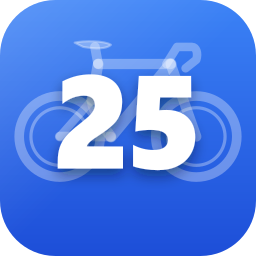
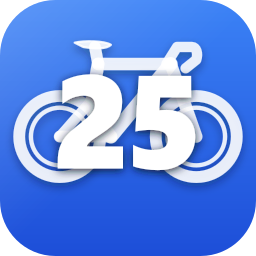
Boost Scott Foil RC 2026 silhouette line thickness and opacity for high visibility on calendar badge

Changed region(s): [[0.25, 0.1562, 0.9688, 0.75], [0.0312, 0.3125, 0.4688, 0.75]]

diff --git a/app/components/DynamicLogo.js b/app/components/DynamicLogo.js
@@ -22,9 +22,9 @@ export default function DynamicLogo({ className = "w-8 h-8", dayNumber }) {
                 ctx.roundRect(0, 0, 64, 64, 15);
                 ctx.fill();
 
-                // 2. Scott Foil Bike Silhouette in background (Soft white tint)
-                ctx.strokeStyle = 'rgba(255, 255, 255, 0.35)';
-                ctx.lineWidth = 2.2;
+                // 2. Scott Foil RC Bike Silhouette (Bold & High Visibility)
+                ctx.strokeStyle = 'rgba(255, 255, 255, 0.85)';
+                ctx.lineWidth = 3.2;
                 ctx.lineCap = 'round';
                 ctx.lineJoin = 'round';
 
@@ -46,12 +46,24 @@ export default function DynamicLogo({ className = "w-8 h-8", dayNumber }) {
                 ctx.lineTo(49, 36);
                 ctx.stroke();
 
-                // 3. Foreground: HUGE PURE WHITE BOLD DAY NUMBER (Google Calendar style)
+                // Cockpit
+                ctx.beginPath();
+                ctx.moveTo(43, 16);
+                ctx.lineTo(47, 12);
+                ctx.lineTo(49, 16);
+                ctx.stroke();
+
+                // 3. Foreground: HUGE PURE WHITE BOLD DAY NUMBER (with subtle shadow)
+                ctx.shadowColor = 'rgba(15, 23, 42, 0.9)';
+                ctx.shadowBlur = 4;
+                ctx.shadowOffsetX = 0;
+                ctx.shadowOffsetY = 2;
+
                 ctx.fillStyle = '#ffffff';
                 ctx.font = '900 36px system-ui, -apple-system, sans-serif';
                 ctx.textAlign = 'center';
                 ctx.textBaseline = 'middle';
-                ctx.fillText(currentDay.toString(), 32, 34);
+                ctx.fillText(currentDay.toString(), 32, 35);
 
                 // Update link icon in head
                 let link = document.querySelector("link[rel*='icon']");
@@ -84,8 +96,13 @@ export default function DynamicLogo({ className = "w-8 h-8", dayNumber }) {
                     <stop offset="50%" stopColor="#ffffff" stopOpacity="0"/>
                 </linearGradient>
 
-                <filter id="numShadow" x="-20%" y="-20%" width="140%" height="140%">
-                    <feDropShadow dx="0" dy="3" stdDeviation="3" floodColor="#0f172a" floodOpacity="0.45"/>
+                <filter id="bikeShadow" x="-15%" y="-15%" width="130%" height="130%">
+                    <feDropShadow dx="0" dy="2" stdDeviation="2" floodColor="#0f172a" floodOpacity="0.4"/>
+                </filter>
+
+                <filter id="strongNumShadow" x="-20%" y="-20%" width="140%" height="140%">
+                    <feDropShadow dx="0" dy="3" stdDeviation="4" floodColor="#0f172a" floodOpacity="0.85"/>
+                    <feDropShadow dx="0" dy="1" stdDeviation="2" floodColor="#0f172a" floodOpacity="0.9"/>
                 </filter>
             </defs>
 
@@ -93,29 +110,29 @@ export default function DynamicLogo({ className = "w-8 h-8", dayNumber }) {
             <rect width="120" height="120" rx="26" ry="26" fill="url(#solidBlueGrad)"/>
             <rect width="120" height="120" rx="26" ry="26" fill="url(#topGlow)"/>
 
-            {/* 2. Scott Foil RC 2026 Silhouette in Background */}
-            <g stroke="#ffffff" strokeOpacity="0.32" strokeLinecap="round" strokeLinejoin="round" fill="none">
-                {/* Deep section 50mm Carbon Aero Wheels */}
-                <circle cx="28" cy="64" r="19" strokeWidth="4.5"/>
-                <circle cx="28" cy="64" r="13.5" strokeWidth="1.5"/>
+            {/* 2. SCOTT FOIL RC 2026 Silhouette: BOLD, CRISP, HIGH-VISIBILITY PURE WHITE */}
+            <g stroke="#ffffff" strokeOpacity="0.88" strokeLinecap="round" strokeLinejoin="round" fill="none" filter="url(#bikeShadow)">
+                {/* Deep Section 50mm Carbon Aero Wheels */}
+                <circle cx="28" cy="64" r="19" strokeWidth="5.5"/>
+                <circle cx="28" cy="64" r="13.5" strokeWidth="2"/>
                 
-                <circle cx="92" cy="64" r="19" strokeWidth="4.5"/>
-                <circle cx="92" cy="64" r="13.5" strokeWidth="1.5"/>
+                <circle cx="92" cy="64" r="19" strokeWidth="5.5"/>
+                <circle cx="92" cy="64" r="13.5" strokeWidth="2"/>
 
                 {/* Scott Foil Frame lines */}
-                <line x1="28" y1="64" x2="52" y2="64" strokeWidth="4.5"/>
-                <line x1="28" y1="64" x2="43" y2="47" strokeWidth="3.8"/>
-                <path d="M43 47 C44 53, 48 59, 52 64" strokeWidth="5"/>
-                <line x1="43" y1="47" x2="46" y2="30" strokeWidth="5"/>
+                <line x1="28" y1="64" x2="52" y2="64" strokeWidth="5.5"/>
+                <line x1="28" y1="64" x2="43" y2="47" strokeWidth="4.8"/>
+                <path d="M43 47 C44 53, 48 59, 52 64" strokeWidth="6"/>
+                <line x1="43" y1="47" x2="46" y2="30" strokeWidth="6"/>
 
-                <line x1="46" y1="30" x2="80" y2="30" strokeWidth="4.8"/>
-                <line x1="52" y1="64" x2="80" y2="30" strokeWidth="5.5"/>
-                <line x1="80" y1="30" x2="92" y2="64" strokeWidth="4.8"/>
+                <line x1="46" y1="30" x2="80" y2="30" strokeWidth="5.8"/>
+                <line x1="52" y1="64" x2="80" y2="30" strokeWidth="6.5"/>
+                <line x1="80" y1="30" x2="92" y2="64" strokeWidth="5.8"/>
 
                 {/* Cockpit & Seatpost */}
-                <path d="M78 30 L83 22 L90 22 C92 22, 93 25, 92 28 L87 32" strokeWidth="4"/>
-                <line x1="46" y1="30" x2="44.5" y2="22" strokeWidth="4.5"/>
-                <path d="M35 20 C39 19, 49 19, 52 21 C50 23, 45 23, 39 22 Z" fill="#ffffff" fillOpacity="0.32" strokeWidth="1"/>
+                <path d="M78 30 L83 22 L90 22 C92 22, 93 25, 92 28 L87 32" strokeWidth="4.8"/>
+                <line x1="46" y1="30" x2="44.5" y2="22" strokeWidth="5.5"/>
+                <path d="M35 20 C39 19, 49 19, 52 21 C50 23, 45 23, 39 22 Z" fill="#ffffff" fillOpacity="0.88" strokeWidth="1"/>
             </g>
 
             {/* 3. Foreground: HUGE PURE WHITE DAY NUMBER (Exact Google Calendar Style) */}
@@ -128,7 +145,7 @@ export default function DynamicLogo({ className = "w-8 h-8", dayNumber }) {
                 fill="#ffffff" 
                 textAnchor="middle" 
                 letterSpacing="-3"
-                filter="url(#numShadow)"
+                filter="url(#strongNumShadow)"
             >
                 {today}
             </text>
